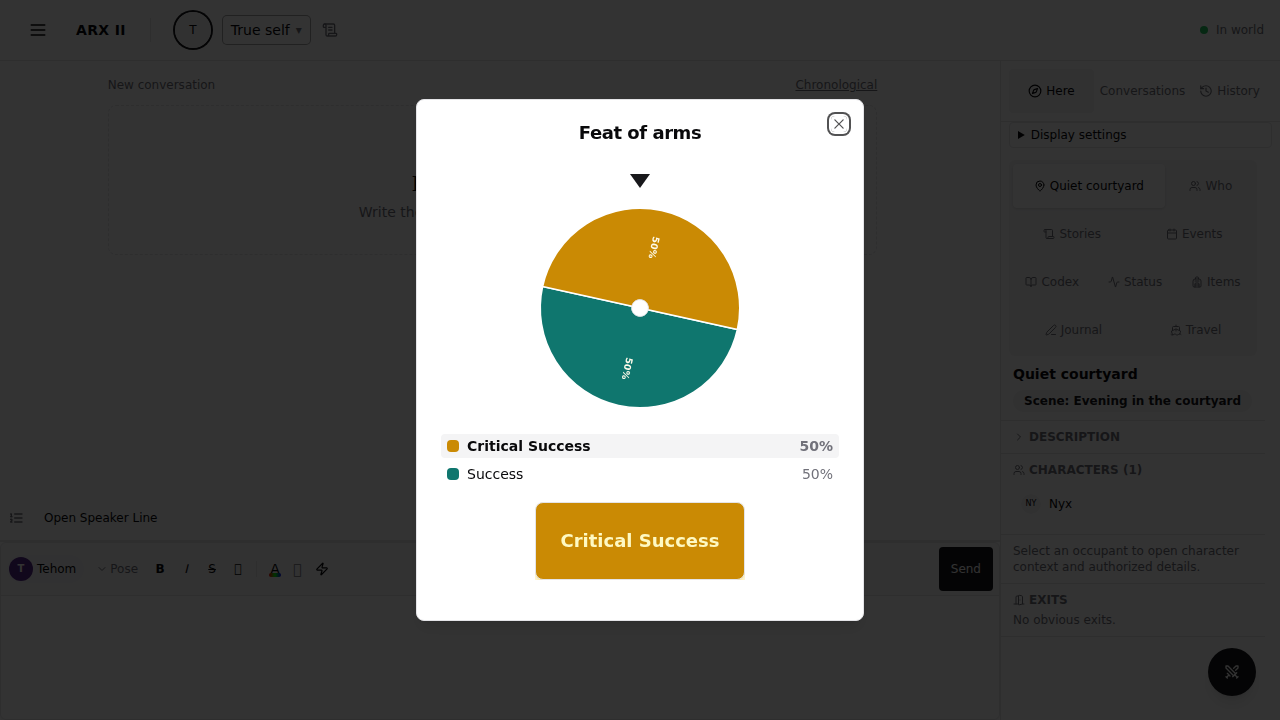
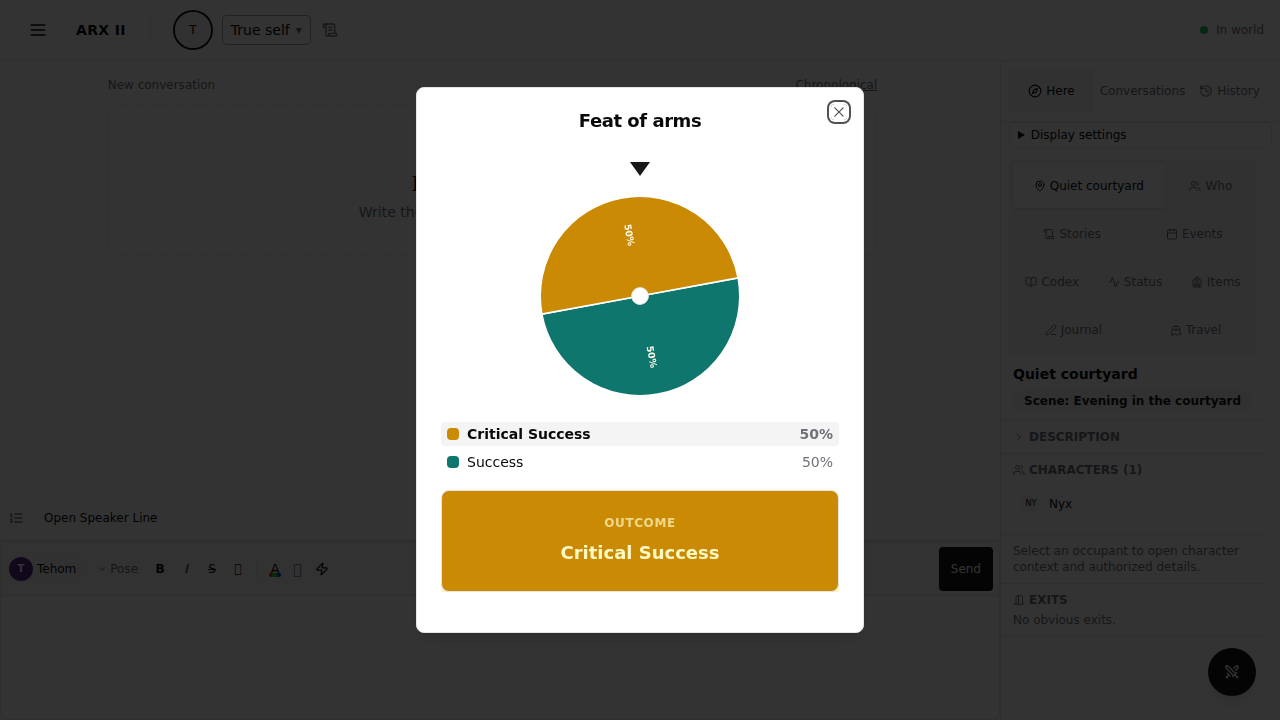
Refresh #3807 evidence: dialog-settle waits, stacking check, reader crop fix
Evidence refresh following the RouletteResult width/caption fix, plus two
capture-quality fixes surfaced while re-shooting:

- The mobile (400px) capture now waits for the Radix dialog's own animate-in
  to finish (data-state="open" + opacity 1) and for the wheel to actually
  land before screenshotting, instead of capturing the instant the dialog
  becomes visible. The earlier washed-out mobile screenshot, with the page
  showing through the modal, was this timing race (finding 2 was (a), not a
  z-index defect) - confirmed by a permanent elementFromPoint assertion that
  the point at the composer's Send button resolves to something inside the
  dialog while it's open.
- build-screen1-reader.png was cropped so the marked row's amber "This
  happened to you" flag sat above the fold. The test now scrolls the
  involvement mark into view before capturing and asserts the flag text is
  actually in the viewport.
- build-screen2-landed.png's eyebrow assertion updated for the new "Outcome"
  caption instead of asserting the eyebrow is absent.

Claude-Session: https://claude.ai/code/session_01RVto1oXMo36RCidCTmE8JS

diff --git a/frontend/e2e/resolution-wheel.spec.ts b/frontend/e2e/resolution-wheel.spec.ts
@@ -60,6 +60,23 @@ async function waitForResultCardSettled(resultLabel: import('@playwright/test').
     .toBeGreaterThan(0.95);
 }
 
+/**
+ * The dialog itself (overlay + content) runs its own Radix animate-in
+ * (`data-[state=open]:fade-in-0 zoom-in-95`, 200ms). A screenshot taken the
+ * instant `getByRole('dialog')` resolves visible can land mid-fade, showing
+ * the page underneath through a still-transparent overlay/content — that
+ * looks like a stacking defect but is really a timing race. Poll both
+ * `data-state` and computed opacity before trusting any capture of it.
+ */
+async function waitForDialogFullyOpen(dialog: import('@playwright/test').Locator) {
+  await expect(dialog).toHaveAttribute('data-state', 'open');
+  await expect
+    .poll(() => dialog.evaluate((el) => Number(getComputedStyle(el).opacity)), {
+      timeout: 3_000,
+    })
+    .toBeGreaterThan(0.99);
+}
+
 interface RouletteFace {
   label: string;
   weight: number;
@@ -99,6 +116,9 @@ test.describe('#3807 outcome delivery + resolution wheel — fixture-backed evid
     await expect(markedRow).toBeVisible();
     await expect(markedRow).toContainText('This happened to you');
     await expect(markedRow).toContainText('Nyx attempts to persuade Tehom: Partial Success');
+    // The flag is the one element this screen exists to show — assert it
+    // reads, not just that the row contains its text.
+    await expect(markedRow.getByText('This happened to you')).toBeVisible();
 
     pushActionRow(connections[0], {
       id: 911,
@@ -109,6 +129,12 @@ test.describe('#3807 outcome delivery + resolution wheel — fixture-backed evid
     const unmarkedRow = page.getByText('Nyx attempts to persuade the guard: Success');
     await expect(unmarkedRow).toBeVisible();
     await expect(page.getByTestId('involvement-mark-911')).toHaveCount(0);
+
+    // A plain full-page capture can land scrolled so the marked row's own
+    // top edge (and the amber flag on it) sits above the fold — scroll it
+    // into view first so both rows, and the flag, are actually in frame.
+    await markedRow.scrollIntoViewIfNeeded();
+    await expect(markedRow.getByText('This happened to you')).toBeInViewport();
 
     await page.screenshot({
       path: '../docs/reviews/3807-shots/build-screen1-reader.png',
@@ -184,13 +210,14 @@ test.describe('#3807 outcome delivery + resolution wheel — fixture-backed evid
     const resultLabel = dialog.locator('p.text-lg.font-bold');
     await expect(resultLabel).toBeVisible({ timeout: 9_000 });
     await expect(resultLabel).toHaveText('Partial Success');
-    // No repeated eyebrow: tier_name === label here, so RouletteResult skips
-    // its small-caps tier line entirely rather than showing "Partial
-    // Success" twice (once as eyebrow, once as the label).
+    // The caption reads "Outcome" rather than repeating "Partial Success":
+    // tier_name === label here, so RouletteResult shows the generic caption
+    // instead of showing "Partial Success" twice (once as eyebrow, once as
+    // the label) — matching the approved demo's small-caps "OUTCOME" line.
     const resultEyebrow = dialog.locator(
       'p.mb-2.text-xs.font-semibold.uppercase.tracking-wider.opacity-70'
     );
-    await expect(resultEyebrow).toHaveCount(0);
+    await expect(resultEyebrow).toHaveText('Outcome');
     await waitForResultCardSettled(resultLabel);
 
     await page.screenshot({
@@ -255,11 +282,46 @@ test.describe('#3807 outcome delivery + resolution wheel — fixture-backed evid
 
     const dialog = page.getByRole('dialog');
     await expect(dialog).toBeVisible();
+    // #3807 review finding: a capture taken the instant the dialog becomes
+    // visible can land mid Radix animate-in, with the composer and reader
+    // showing through a still-transparent overlay/content — wait for the
+    // dialog's own entrance to finish before trusting anything about what's
+    // drawn on top of it.
+    await waitForDialogFullyOpen(dialog);
+
+    // And wait for the wheel to actually land, same as the desktop captures,
+    // so the mobile shot shows the settled result card, not a mid-spin disc.
+    const resultLabel = dialog.locator('p.text-lg.font-bold');
+    await expect(resultLabel).toBeVisible({ timeout: 9_000 });
+    await expect(resultLabel).toHaveText('Partial Success');
+    await waitForResultCardSettled(resultLabel);
 
     const hasNoHorizontalScroll = await page.evaluate(
       () => document.documentElement.scrollWidth <= document.documentElement.clientWidth
     );
     expect(hasNoHorizontalScroll).toBe(true);
+
+    // Permanent stacking assertion (#3807 finding 2): with the dialog open,
+    // the point at the composer's Send button must resolve to something
+    // inside the dialog, never the composer itself — the dialog's overlay
+    // (or content) has to be genuinely on top, not just drawn to look that
+    // way. This is the direct check for a real z-index defect, as opposed to
+    // the animate-in timing race `waitForDialogFullyOpen` guards against.
+    // A plain attribute selector, not `getByRole('button', { name: 'Send' })`
+    // — the role query intermittently resolved to zero elements here even
+    // though the button was present and unambiguous in the DOM.
+    const sendButton = page.locator('button[aria-label="Send"]');
+    await expect(sendButton).toHaveCount(1);
+    const sendBox = await sendButton.evaluate((el) => el.getBoundingClientRect());
+    const topElementIsInDialog = await page.evaluate(
+      ({ x, y }) => {
+        const el = document.elementFromPoint(x, y);
+        const dialogEl = document.querySelector('[role="dialog"]');
+        return Boolean(el && dialogEl && dialogEl.contains(el));
+      },
+      { x: sendBox.x + sendBox.width / 2, y: sendBox.y + sendBox.height / 2 }
+    );
+    expect(topElementIsInDialog).toBe(true);
 
     await page.screenshot({
       path: '../docs/reviews/3807-shots/build-mobile-400.png',
